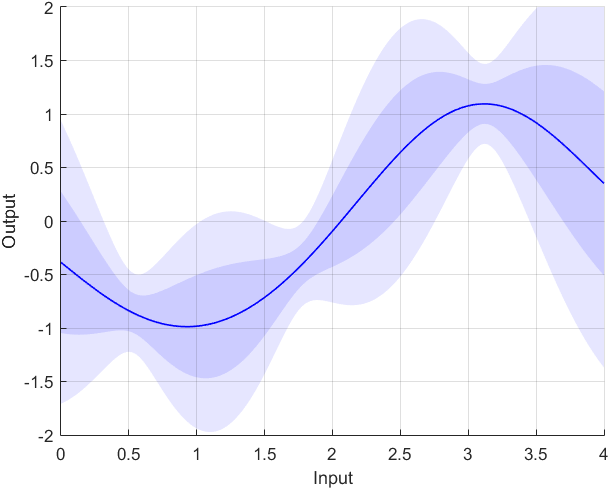
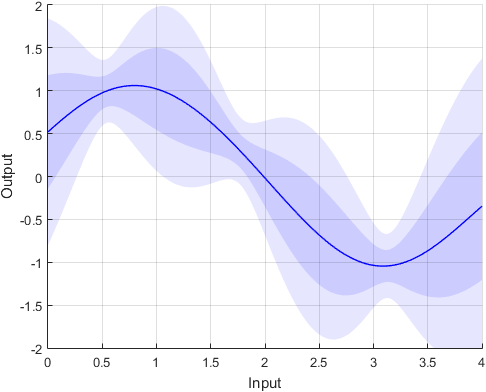
Fix typo (missing minus sign) for Figure 2.9.

diff --git a/Chapter2/Chapter2.m b/Chapter2/Chapter2.m
@@ -541,8 +541,8 @@ SPost = Kss - Ksm/(Kmm + Sfm)*Kms; % This is the posterior covariance matrix.
 sPost = sqrt(diag(SPost)); % These are the posterior standard deviations.
 
 % We set up the GP plot.
-figure(6);
-clf(6);
+figure(9);
+clf(9);
 hold on;
 grid on;
 xlabel('Input');
@@ -569,13 +569,13 @@ end
 d2Kss = Kss.*(1/lx^2 - (diff(nm+1:end,nm+1:end).^2/lx^4)); % This is the derivative d^2 k(x,x') / dx dx' for the trial points.
 dKms = Kms.*diff(1:nm,nm+1:end)/lx^2; % This is the derivative dk(x,x') / dx' where the first input is the set of measurement points and the second input is the set of trial points.
 dKsm = dKms'; % This is the derivative dk(x,x') / dx where the first input is the set of trial points and the second input is the set of measurement points.
-mdPost = dKsm/(Kmm + Sfm)*(fmh - mm); % These are the posterior mean of the derivative.
+mdPost = -dKsm/(Kmm + Sfm)*(fmh - mm); % These are the posterior mean of the derivative.
 SdPost = d2Kss - dKsm/(Kmm + Sfm)*dKms; % These are the posterior covariance of the derivative.
 sdPost = sqrt(diag(SdPost)); % These are the posterior standard deviations of the derivative.
 
 % We set up the GP plot.
-figure(6);
-clf(6);
+figure(9);
+clf(9);
 hold on;
 grid on;
 xlabel('Input');
